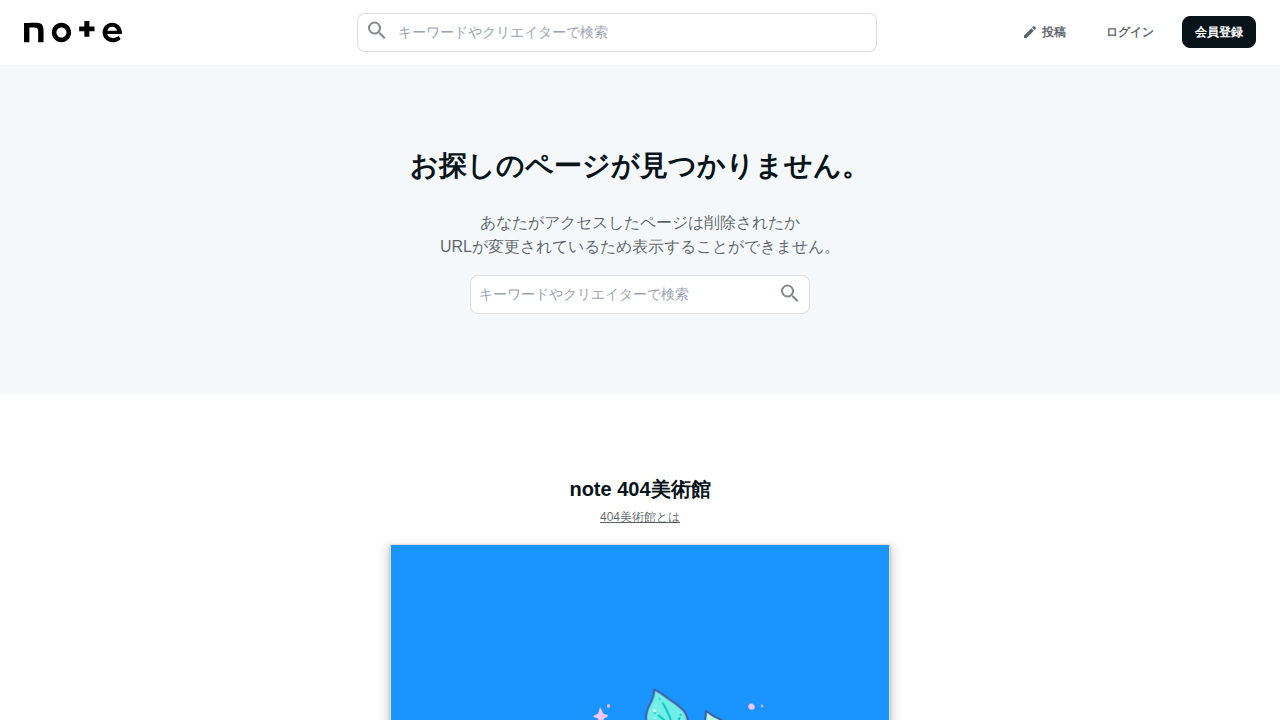
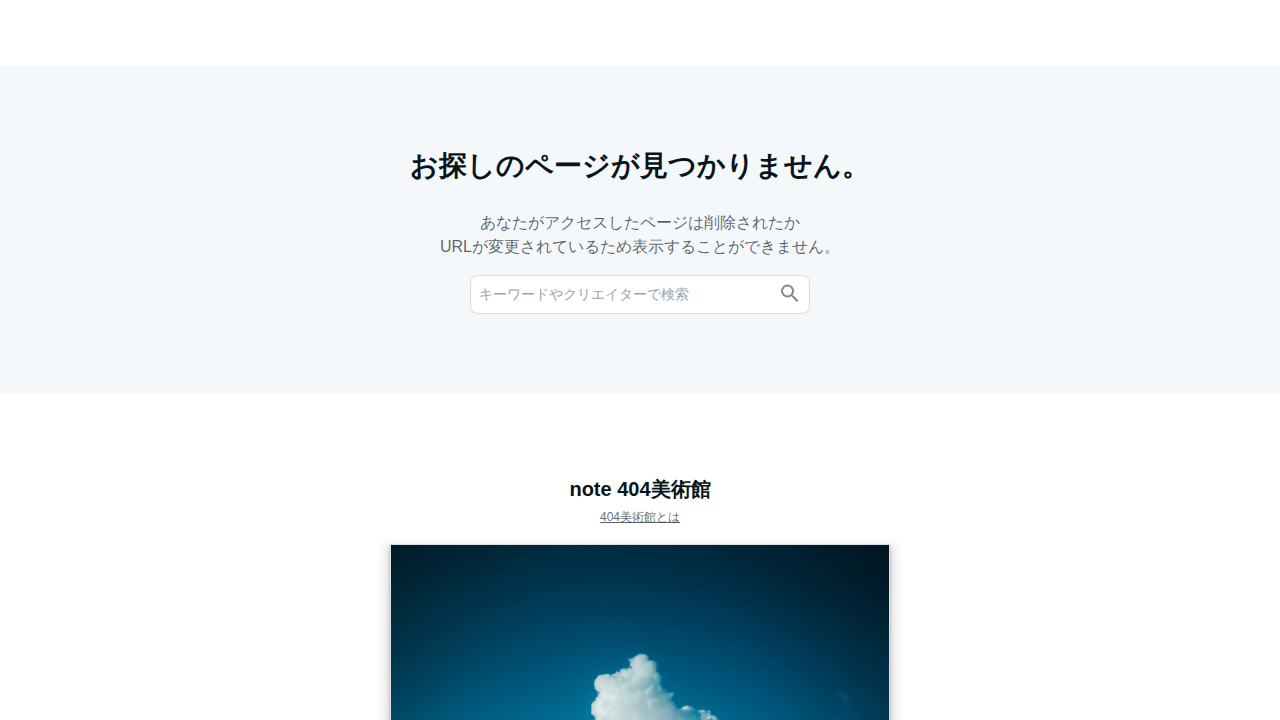
Daily: note アナリティクス取得 2026-05-13

diff --git a/運営ログ/note_アナリティクス_2026-05-13.md b/運営ログ/note_アナリティクス_2026-05-13.md
@@ -4,9 +4,6 @@
 
 ```
 メインコンテンツへスキップ
-投稿
-ログイン
-会員登録
 お探しのページが見つかりません。
 
 あなたがアクセスしたページは削除されたか
@@ -15,9 +12,9 @@ URLが変更されているため表示することができません。
 note 404美術館
 404美術館とは
 
-プールサイド
+朔日書簡―八月
 
-Hiroko
+ハシモト
 ```
 
 ## プロフィール
